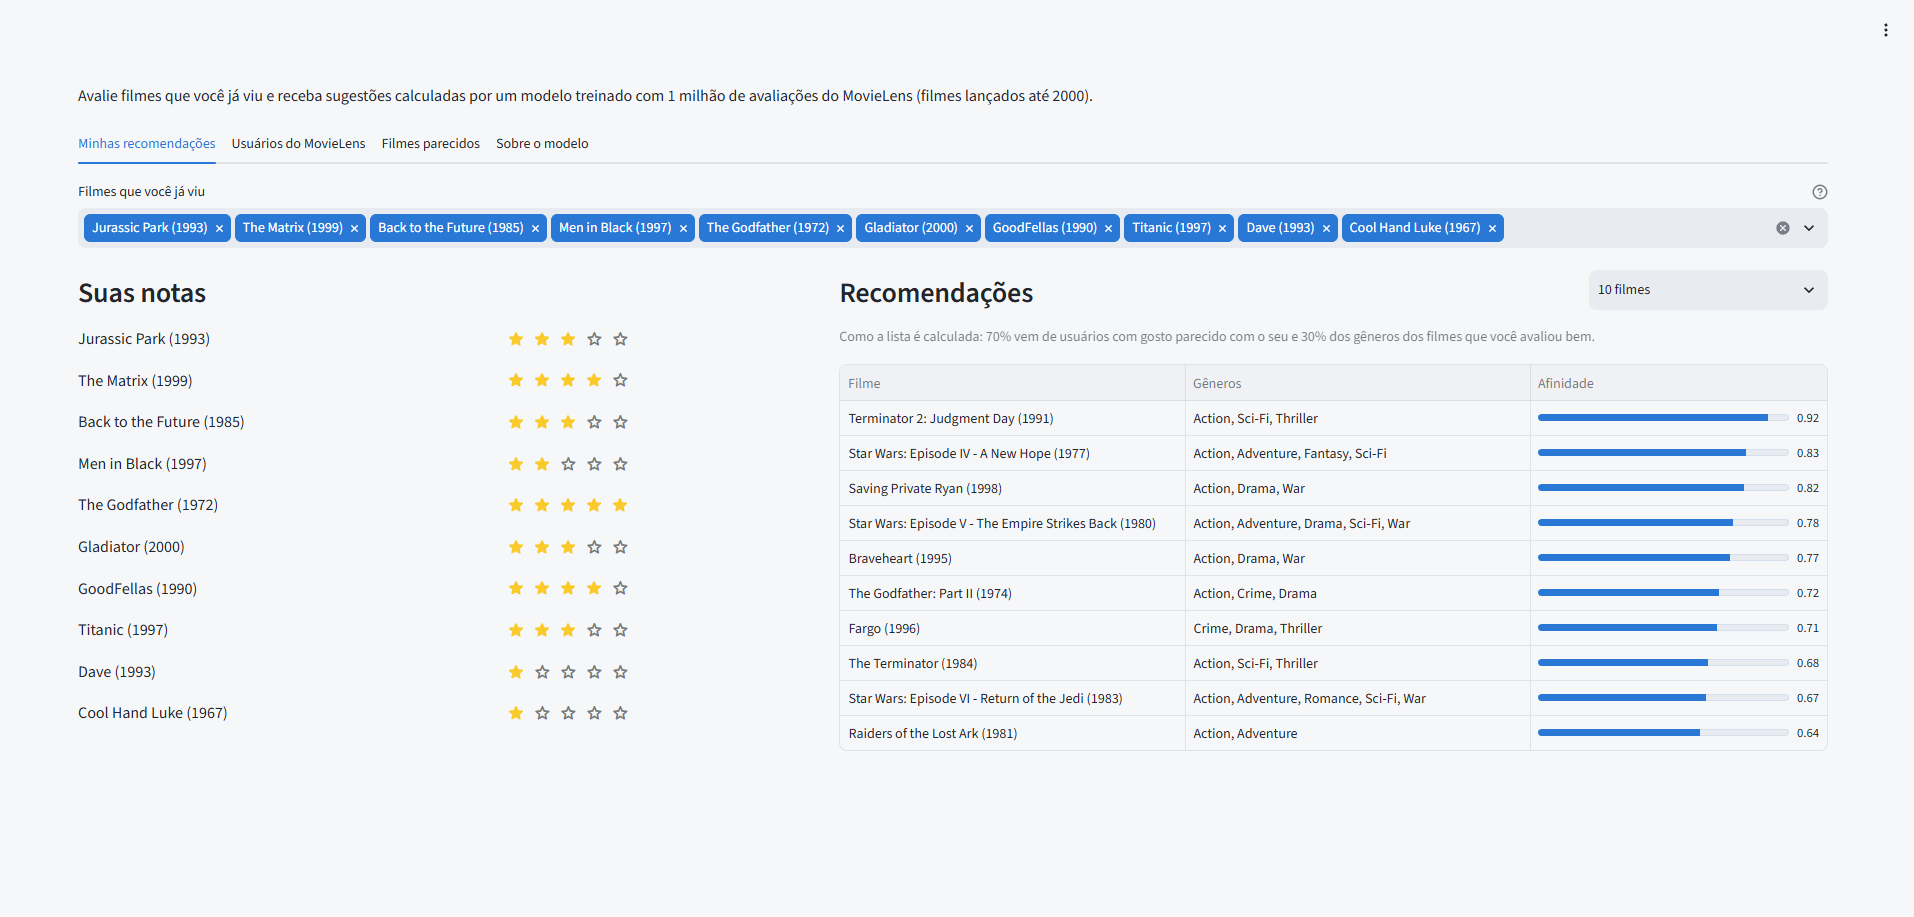
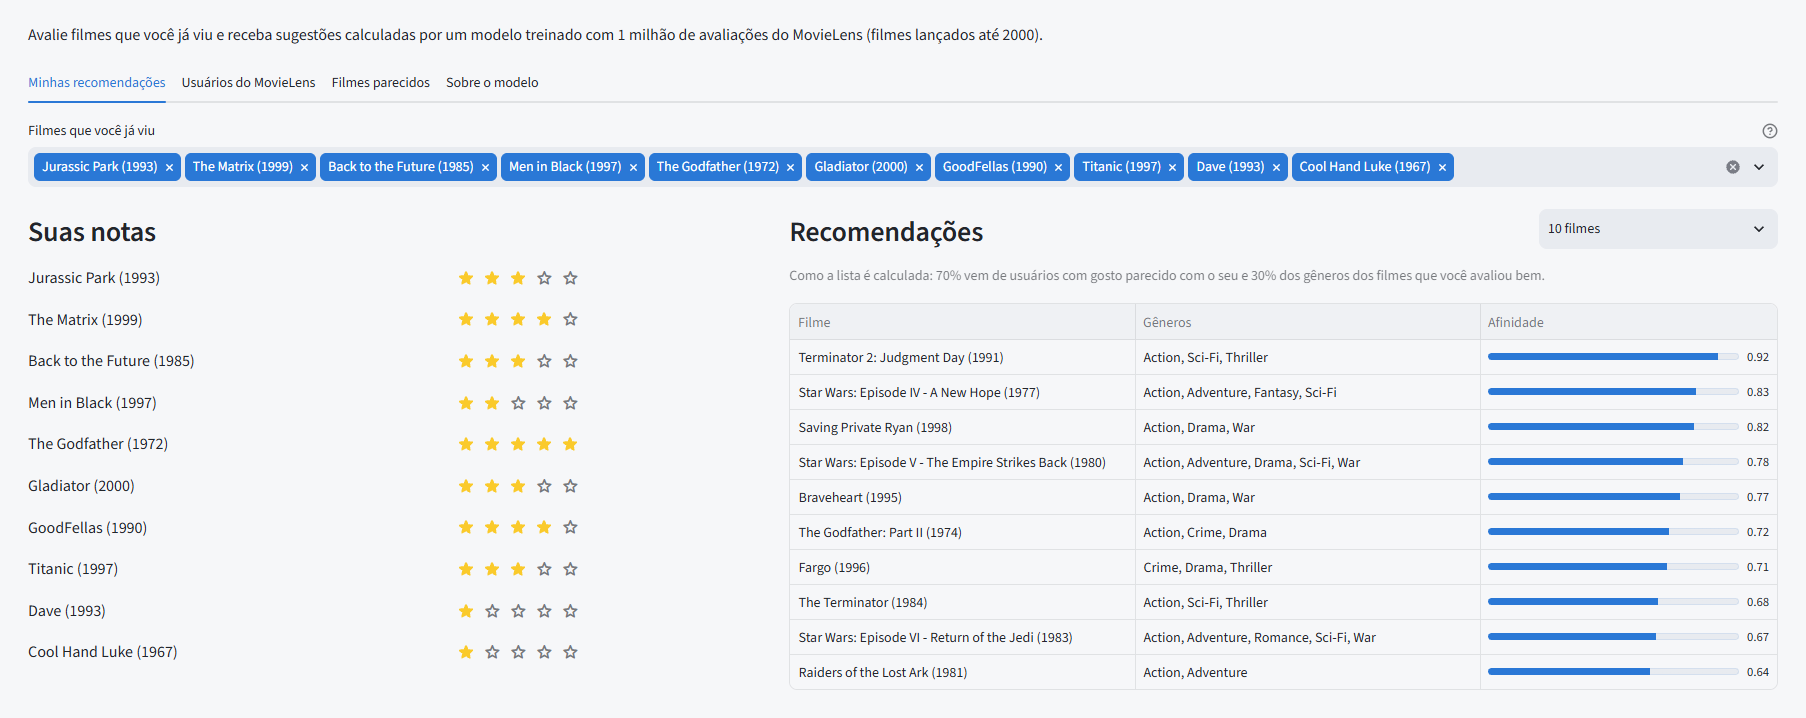
Etapa 7: README completo

diff --git a/README.md b/README.md
@@ -4,16 +4,164 @@
 ![Python](https://img.shields.io/badge/python-3.10%20%7C%203.12-blue)
 [![Licença: MIT](https://img.shields.io/badge/licen%C3%A7a-MIT-green)](LICENSE)
 
-Recomendador híbrido de filmes (fatoração de matrizes + conteúdo) treinado no MovieLens 1M,
-com avaliação top-N reprodutível: split cronológico, escolhas só na validação e uma única
-avaliação no teste.
+Recomendador híbrido de filmes treinado com o MovieLens 1M (1 milhão de avaliações de
+6.040 usuários sobre 3.883 filmes). Combina fatoração de matrizes, que encontra usuários
+com gosto parecido, com similaridade de gêneros, ponderada pelas notas de cada pessoa.
+O projeto vai do experimento em notebook a um app interativo, uma API e uma imagem Docker,
+com avaliação reprodutível: qualquer pessoa chega ao mesmo modelo e às mesmas métricas
+com um comando.
 
-> 🚧 Documentação completa em construção. As métricas oficiais estão em
-> [`reports/metrics.md`](reports/metrics.md), geradas por código a partir dos dados.
+![App: avaliação de filmes em estrelas, à esquerda, e recomendações com a afinidade de cada filme, à direita](docs/images/app-recomendacoes.png)
+
+*Notas altas para The Godfather, GoodFellas e The Matrix trazem The Godfather: Part II,
+Fargo e Terminator 2, além de filmes próximos do perfil, como Star Wars.*
+
+## Resultados
+
+Avaliação top-10 nas avaliações mais recentes de cada usuário, que nenhum modelo viu
+durante o ajuste. Uma recomendação conta como acerto quando o usuário deu nota 4 ou 5 ao
+filme.
+
+| Modelo | Precision@10 | Recall@10 | NDCG@10 | Cobertura |
+|---|---:|---:|---:|---:|
+| **Híbrido final** (SVD + conteúdo, α = 0,7) | **0,0997** | 0,0844 | 0,1213 | **21,9%** |
+| SVD (scikit-learn, 20 componentes) | 0,0992 | 0,0847 | **0,1218** | 17,7% |
+| Popularidade *(baseline)* | 0,0799 | 0,0473 | 0,0907 | 3,0% |
+| Híbrido inicial (α = 0,5, sem normalizar) | 0,0381 | 0,0400 | 0,0520 | 45,7% |
+| SVD (Surprise, nota prevista) | 0,0243 | 0,0168 | 0,0252 | 8,6% |
+| Conteúdo ponderado por nota | 0,0122 | 0,0094 | 0,0143 | 98,3% |
+| Conteúdo (só gêneros) | 0,0106 | 0,0106 | 0,0128 | 85,1% |
+| Aleatório *(baseline)* | 0,0050 | 0,0028 | 0,0054 | 100,0% |
+
+Valores de [`reports/metrics.json`](reports/metrics.json), gerado por
+`python scripts/evaluate.py`. A tabela completa, com a fase de validação, está em
+[`reports/metrics.md`](reports/metrics.md).
+
+![NDCG@10 no teste por modelo](reports/figures/test_ndcg.png)
+
+**O que os números mostram:**
+
+- **O híbrido empata com o SVD em precisão e recomenda um catálogo mais variado.** Na
+  validação, o híbrido superava o SVD (NDCG 0,1073 contra 0,1027). No teste, os dois
+  empatam (0,1213 contra 0,1218): a vantagem vista na validação era, em boa parte, efeito
+  de escolher os pesos no mesmo conjunto em que se mede. É exatamente o otimismo que a
+  separação validação/teste existe para revelar. A vantagem que se manteve é a cobertura:
+  21,9% do catálogo contra 17,7%.
+- **Os dois modelos personalizados superam a popularidade em 34%** de NDCG, e a
+  popularidade recomenda só 3% do catálogo.
+- **Normalizar os scores é indispensável.** Sem normalizar, o score de conteúdo, uma soma
+  de similaridades, domina o colaborativo, e o híbrido fica abaixo da própria popularidade.
+- **Bom RMSE não significa boa lista.** O SVD do Surprise tem o melhor erro de nota do
+  projeto (RMSE 0,87 na validação, no notebook), mas a pior lista entre os colaborativos.
+  Ele aprende a acertar notas só dos filmes que cada pessoa escolheu ver, e por isso
+  favorece filmes pouco conhecidos com nota prevista alta (Cremonesi et al., 2010).
+- **Gêneros sozinhos dizem pouco** sobre o gosto de alguém, mas cobrem quase todo o
+  catálogo. No híbrido, eles entram como tempero, com peso de 30%.
+
+## Como funciona
+
+```mermaid
+flowchart LR
+    A[(MovieLens 1M)] --> B[Split cronológico<br/>por usuário]
+    B --> C[Treino 64%]
+    B --> D[Validação 16%]
+    B --> E[Teste 20%]
+    C --> F[Escolha de componentes,<br/>variante de conteúdo e α]
+    D --> F
+    F --> G[Re-treino em<br/>treino + validação]
+    G --> H[Avaliação única<br/>no teste]
+    E --> H
+    H --> I[reports/metrics.json]
+    F --> J[Modelo final com<br/>todas as avaliações]
+    J --> K[App Streamlit]
+    J --> L[API FastAPI]
+```
+
+O score de um filme para um usuário combina duas partes, cada uma normalizada de 0 a 1
+entre os filmes que ele ainda não avaliou:
+
+```
+score = 0,7 · colaborativo + 0,3 · conteúdo
+```
+
+- **Colaborativo:** SVD truncado (scikit-learn, 20 componentes) sobre a matriz
+  usuário × filme. Projeta usuários e filmes num espaço de 20 "gostos" e reconstrói a
+  afinidade de cada par.
+- **Conteúdo:** vetores TF-IDF dos gêneros. O perfil do usuário soma a similaridade com
+  cada filme que ele avaliou, com peso *nota − média do usuário*. Assim, filmes de que ele
+  não gostou afastam recomendações parecidas.
+
+### Metodologia
+
+- **Split cronológico por usuário:** de cada pessoa, os 20% mais recentes das suas
+  avaliações vão para o teste, e 20% do restante para a validação. O modelo é avaliado no "futuro" de
+  cada usuário, como em produção.
+- **Escolhas só na validação:** primeiro o número de componentes do SVD (20, 50, 100,
+  150 ou 200); depois a variante de conteúdo e o peso α, fixo de 0 a 1 ou adaptativo, em
+  34 combinações. Tudo pelo NDCG@10 na validação.
+- **Teste usado uma vez:** com tudo escolhido, os modelos são re-treinados em treino +
+  validação e avaliados uma única vez. Nenhuma decisão olha o teste.
+- **Baselines:** aleatório e popularidade, para medir quanto a personalização agrega.
+- **Métricas:** Precision@10 (fração da lista que o usuário gostou), Recall@10 (fração do
+  que ele gostou que entrou na lista), NDCG@10 (como a precision, mas acertos no topo
+  valem mais) e cobertura (fração do catálogo que aparece em alguma lista).
+
+## Decisões técnicas
+
+- **Usuários novos sem re-treinar.** Quem usa o app não está no dataset. As notas dessa
+  pessoa são projetadas no SVD já treinado (*fold-in*, com `TruncatedSVD.transform`). Um
+  teste garante que um "usuário novo" com as mesmas notas de um usuário existente recebe
+  exatamente a mesma lista.
+- **Similaridade sem a matriz filme × filme.** Como os vetores TF-IDF têm norma 1, a
+  similaridade de cosseno é `X @ X.T`, e a conta do perfil pode ser reordenada para
+  `(pesos @ X) @ X.T`. O resultado é idêntico e dispensa uma matriz de 3.883 × 3.883
+  (cerca de 120 MB). O modelo salvo tem 3 MB e treina em menos de 1 segundo.
+- **Desempate reprodutível no ranking.** Nos modelos de conteúdo, filmes com os mesmos
+  gêneros recebem o mesmo score, e todo usuário tem empate na fronteira do top-10. A
+  ordenação do notebook original (`argpartition`) desempatava de um jeito que muda com a
+  versão do NumPy e com as instruções do processador: as métricas de conteúdo mudavam de
+  um computador para outro. O ranking passou a desempatar por um sorteio fixo de cada
+  usuário, que é reprodutível e não favorece sempre os mesmos filmes. Onde não há empate,
+  o resultado é idêntico ao do notebook; por isso SVD e híbrido não mudaram, e as linhas
+  de conteúdo diferem um pouco das do notebook.
+- **O que é servido é o que foi avaliado.** App, API e avaliação usam as mesmas funções.
+  Os testes conferem que o recomendador servido devolve exatamente as listas avaliadas no
+  teste, e o `scripts/evaluate.py` falha se a configuração escolhida na validação for
+  diferente da usada pelo modelo final.
+
+## Reprodutibilidade
+
+- `scripts/check_model.py` compara o modelo treinado com a última célula do notebook (as
+  recomendações do usuário 1) e falha se forem diferentes.
+- A integração contínua roda os testes em **Linux e Windows, com Python 3.10 e 3.12**, e
+  constrói a imagem Docker baixando o MovieLens real, treinando e rodando o
+  `check_model.py`. A cada push, ela prova que outra máquina, com outras versões das
+  bibliotecas, chega ao mesmo modelo.
+- Os testes também executam o código das células do notebook e conferem que o pacote
+  produz os mesmos scores, listas e métricas. E o `reports/metrics.json` publicado é
+  conferido contra as tabelas impressas no notebook.
+- `requirements.txt` e `requirements-dev.txt` travam as versões testadas.
+
+## Limitações e próximos passos
+
+- **O split é temporal por usuário, não global.** O treino pode conter avaliações de
+  outros usuários feitas depois do início do teste de alguém: em média, 48% das
+  avaliações de treino e validação são posteriores a esse momento. As métricas podem ser
+  um pouco otimistas em relação a recomendações em tempo real. Próximo passo: repetir a
+  avaliação com um corte temporal global.
+- **O conteúdo usa só gêneros.** Ano, sinopse, elenco ou tags poderiam dar à parte de
+  conteúdo um papel maior no híbrido.
+- **A diferença entre híbrido e SVD não foi testada estatisticamente.** Um bootstrap por
+  usuário diria se o empate em NDCG e a diferença de cobertura são robustos.
+- **O α adaptativo não ajudou neste dataset.** O peso que cresce com o número de
+  avaliações (α = n / (n + c)) não superou o α fixo, porque no MovieLens 1M todo usuário
+  tem ao menos 20 avaliações, e o cenário de usuário novo, que justificaria o adaptativo,
+  quase não aparece.
+- **O catálogo vai até 2000** e reflete os usuários do MovieLens da época.
 
 ## Como rodar
 
-### Com Docker (mais simples)
+### Com Docker
 
 ```bash
 docker compose up --build
@@ -31,14 +179,61 @@ python -m pip install --upgrade pip
 python -m pip install -e ".[dev,surprise,api,app]" -c requirements-dev.txt
 
 python scripts/download_data.py        # baixa e valida o MovieLens 1M
-python scripts/evaluate.py             # regenera reports/ (métricas e gráficos)
 python scripts/train.py                # treina o modelo final em models/
 python scripts/check_model.py          # confere que o modelo é igual ao do notebook
-python -m pytest                       # testes
 
-streamlit run app/streamlit_app.py     # interface: http://localhost:8501
+streamlit run app/streamlit_app.py     # app: http://localhost:8501
 uvicorn recommender.api:app            # API: http://localhost:8000/docs
+
+python scripts/evaluate.py             # refaz a avaliação e regenera reports/
+python -m pytest                       # testes
 ```
 
-`requirements.txt` (execução) e `requirements-dev.txt` (desenvolvimento) travam as versões
-testadas. Para atualizá-las: `pip install uv` e rode o comando do cabeçalho de cada arquivo.
+### API
+
+```bash
+# Recomendações para quem acabou de avaliar alguns filmes
+curl -X POST http://localhost:8000/recommendations \
+  -H "Content-Type: application/json" \
+  -d '{"ratings": [{"movie_id": 858, "rating": 5}, {"movie_id": 2571, "rating": 4}], "n": 5}'
+
+curl "http://localhost:8000/movies?search=matrix"        # busca por título
+curl http://localhost:8000/movies/858/similar            # filmes parecidos
+curl http://localhost:8000/users/1/recommendations       # usuário do MovieLens
+```
+
+## Estrutura
+
+```
+├── app/streamlit_app.py      app interativo
+├── src/recommender/          pacote com toda a lógica
+│   ├── data.py               leitura dos dados e split cronológico
+│   ├── models.py             SVD, conteúdo, híbrido e baselines
+│   ├── evaluation.py         ranking top-k e métricas
+│   ├── experiment.py         protocolo de validação e teste
+│   ├── recommender.py        modelo servido (usuários do dataset e novos)
+│   ├── api.py                API FastAPI
+│   └── ...                   catálogo, configuração e relatórios
+├── scripts/                  download, avaliação, treino e conferência do modelo
+├── notebooks/                experimento original, com análises e conclusões
+├── reports/                  métricas e gráficos gerados pelos scripts
+├── tests/                    testes automatizados
+├── Dockerfile · compose.yaml
+└── requirements*.txt         versões travadas
+```
+
+## Dados
+
+[MovieLens 1M](https://grouplens.org/datasets/movielens/1m/), do GroupLens Research. Os
+dados não ficam no repositório, porque a licença não permite redistribuí-los:
+`scripts/download_data.py` baixa o arquivo oficial e confere as contagens.
+
+> F. Maxwell Harper and Joseph A. Konstan. 2015. *The MovieLens Datasets: History and
+> Context*. ACM Transactions on Interactive Intelligent Systems 5, 4, Article 19.
+> https://doi.org/10.1145/2827872
+
+## Autor
+
+**Vitor Andrade** · [github.com/nuss44](https://github.com/nuss44/)
+
+Código sob a [licença MIT](LICENSE).
